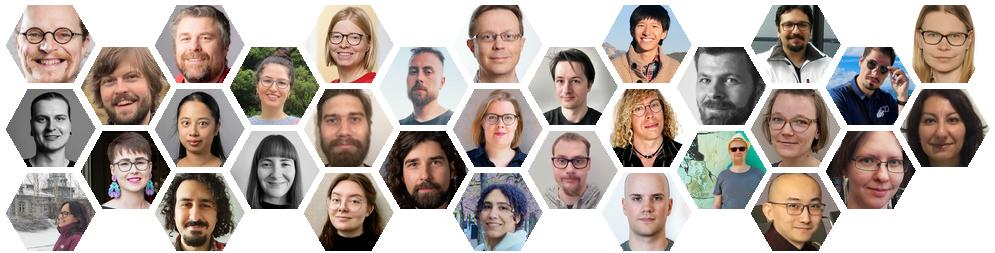
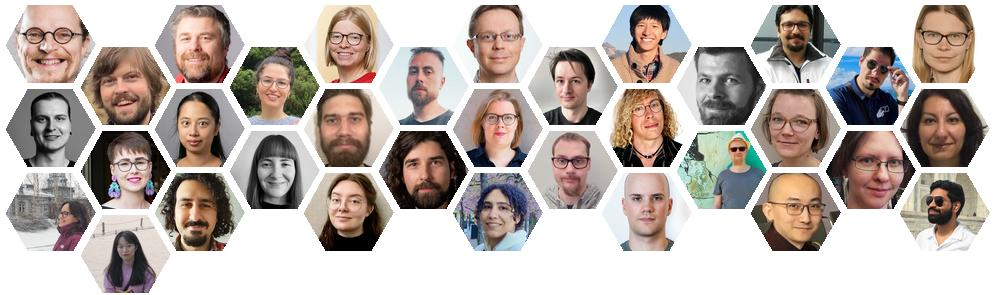
more ppl

diff --git a/people.md b/people.md
@@ -348,6 +348,28 @@ title: People
       	</div>
       </div>
     </div> <!-- end of row (4 people per row)-->
+    <div class="row">
+      <div class="col-4u 12u$(small)">
+        <span class="image"><img src="assets/images/naveen_vakada.jpg" alt="Naveen Vakada" /></span>
+        <div class="content">
+	  <h3><a href="https://www.utu.fi/en/people/naveen-vakada">Naveen Vakada</a></h3>
+	  <h4>Doctoral Researcher</h4>
+      	    <p>PhD researcher in multimodal machine learning, focusing on diagnostic, agentic, and efficient reasoning systems beyond traditional vision–language models. Current research interests include multimodal reasoning, retrieval-augmented systems and reasoning efficiency.</p>
+      </div>
+      </div>
+      <div class="col-4u 12u$(small)">
+        <span class="image"><img src="assets/images/YicongWu.jpg" alt="Yicong Wu" /></span>
+        <div class="content">
+	  <h3><a href="https://www.utu.fi/en/people/yicong-wu">Yicong Wu</a></h3>
+	  <h4>Doctoral researcher</h4>
+	  <p>My research focuses on medical AI, with an emphasis on agent-based AI systems for clinical decision support.</p>
+	</div>
+      </div>
+      <div class="col-4u 12u$(small)">
+      </div>
+      <div class="col-4u 12u$(small)">
+      </div>
+    </div> <!-- end of row (4 people per row)-->
 
 
 </section>
